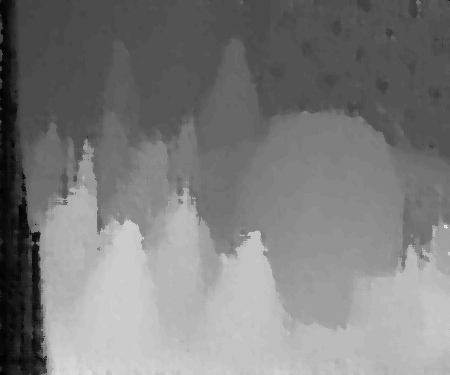
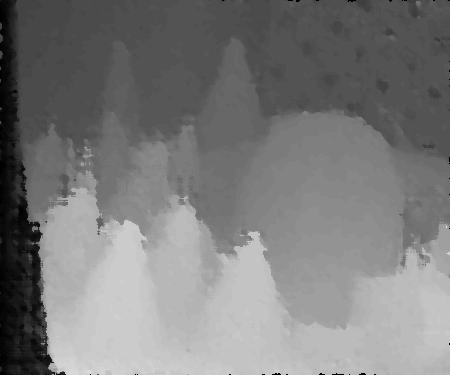
finsh

diff --git a/model.py b/model.py
@@ -22,14 +22,9 @@ class Param:
         self.p2 = 150
         self.min_disparity = 0
         self.max_disparity = 64
+        self.super_pixel_enable = False
         self.check_unique_enable = True
-        self.unique_ratio = 0.01
-        self.check_lr_enable = True
-        self.check_lr_thres = 10
-        self.remove_speckles_enable = True
-        self.min_speckle_aera = 20
-        self.diff_speckle_value = 2
-        self.fill_hole_enable = True
+        self.unique_ratio = 0.1
         self.median_filter_enable = True
         self.filter_k_size= 5
 
@@ -318,12 +313,6 @@ class Model:
         if Direction.N in self.paths.paths:
             p.apply_async(self.aggregate_N, args=(height, width, path_id, cost_volume))
             path_id += 1
-        if Direction.S in self.paths.paths:
-            p.apply_async(self.aggregate_S, args=(height, width, path_id, cost_volume))
-            path_id += 1
-        if Direction.N in self.paths.paths:
-            p.apply_async(self.aggregate_N, args=(height, width, path_id, cost_volume))
-            path_id += 1
         if Direction.E in self.paths.paths:
             p.apply_async(self.aggregate_E, args=(height, width, path_id, cost_volume))
             path_id += 1
@@ -347,13 +336,43 @@ class Model:
 
         return get_shared_array("shared_aggregation")
 
+    def index_select_2d(self, data, index):
+        H, W, _ = data.shape
+        res = np.zeros([H, W])
+        for y in range(H):
+            for x in range(W):
+                res[y, x] = data[y, x, index[y, x]]
+        return res
+
     def compute_disparity(self, aggregation_volume):
         volume = np.sum(aggregation_volume, axis=3)
-        disparity_map = np.argmin(volume, axis=2)
+        min_idx = np.argmin(volume, axis=2)
+
+        delta = np.zeros_like(min_idx)
+        _, _, C = volume.shape
+        if self.param.super_pixel_enable:
+            idx1 = np.clip(min_idx - 1, a_min=0, a_max=C-1)
+            idx2 = np.clip(min_idx + 1, a_min=0, a_max=C-1)
+            cost0 = self.index_select_2d(volume, min_idx)
+            cost1 = self.index_select_2d(volume, idx1)
+            cost2 = self.index_select_2d(volume, idx2)
+
+            mask = (cost1 + cost2 - 2*cost0) != 0
+            delta[mask] = (cost1[mask] - cost2[mask]) / (2 * (cost1[mask] + cost2[mask] - 2*cost0[mask]))
+            
+        disparity_map = min_idx + delta + self.param.min_disparity
+        if self.param.check_unique_enable:
+            val_min = np.min(volume, axis=2)
+            H, W = min_idx.shape
+            for y in range(H):
+                for x in range(W):
+                    volume[y, x, min_idx[y, x]] = 2**31
+            val_second_min =  np.min(volume, axis=2)
+            mask = (val_min - val_second_min) < (val_min * self.param.unique_ratio)
+
+            disparity_map[mask] = 0
 
         return disparity_map
-       
-
 
     def process(self):
         left_enc = self.encode_img(self.left)
@@ -372,7 +391,7 @@ class Model:
         disparity = (255.0 * disparity / self.param.max_disparity).astype(np.uint8)
 
         if self.param.median_filter_enable:
-            disparity = cv2.medianBlur(disparity, self.param.filter_win_size)
+            disparity = cv2.medianBlur(disparity, self.param.filter_k_size)
 
         # cv2.imwrite(self.data_config["out_fn"], disparity)
         cv2.imwrite("check.png", disparity)

diff --git a/firmware.py b/firmware.py
@@ -55,29 +55,21 @@ class Firmware:
             param.leading_diag_downup = False
             param.second_diag_updown = False
             param.second_diag_downup = False
-            param.check_unique_enable = False
-            param.check_lr_enable = False
-            param.remove_speckles_enable = False
-            param.fill_hole_enable = False
             param.median_filter_enable = False
+            param.super_pixel_enable = False
+            param.check_unique_enable = False
         else:
             param.leading_diag_updown = True
             param.leading_diag_downup = True 
             param.second_diag_updown = True 
             param.second_diag_downup = True 
-            param.check_unique_enable = True 
-            param.check_lr_enable = True 
-            param.remove_speckles_enable = True 
-            param.fill_hole_enable = True 
             param.median_filter_enable = True 
+            param.super_pixel_enable = True
+            param.check_unique_enable = True
 
         if self.config['dense_mode'] == Dense_mode.MODE_0:
             param.p1 = 5
             param.p2 = 50
-            param.unique_ratio = 0.01
-            param.check_lr_thres = 10
-            param.min_speckle_aera = 20
-            param.diff_speckle_value = 2
             param.filter_k_size = 5
             param.blur_k_size = 5
         else:
